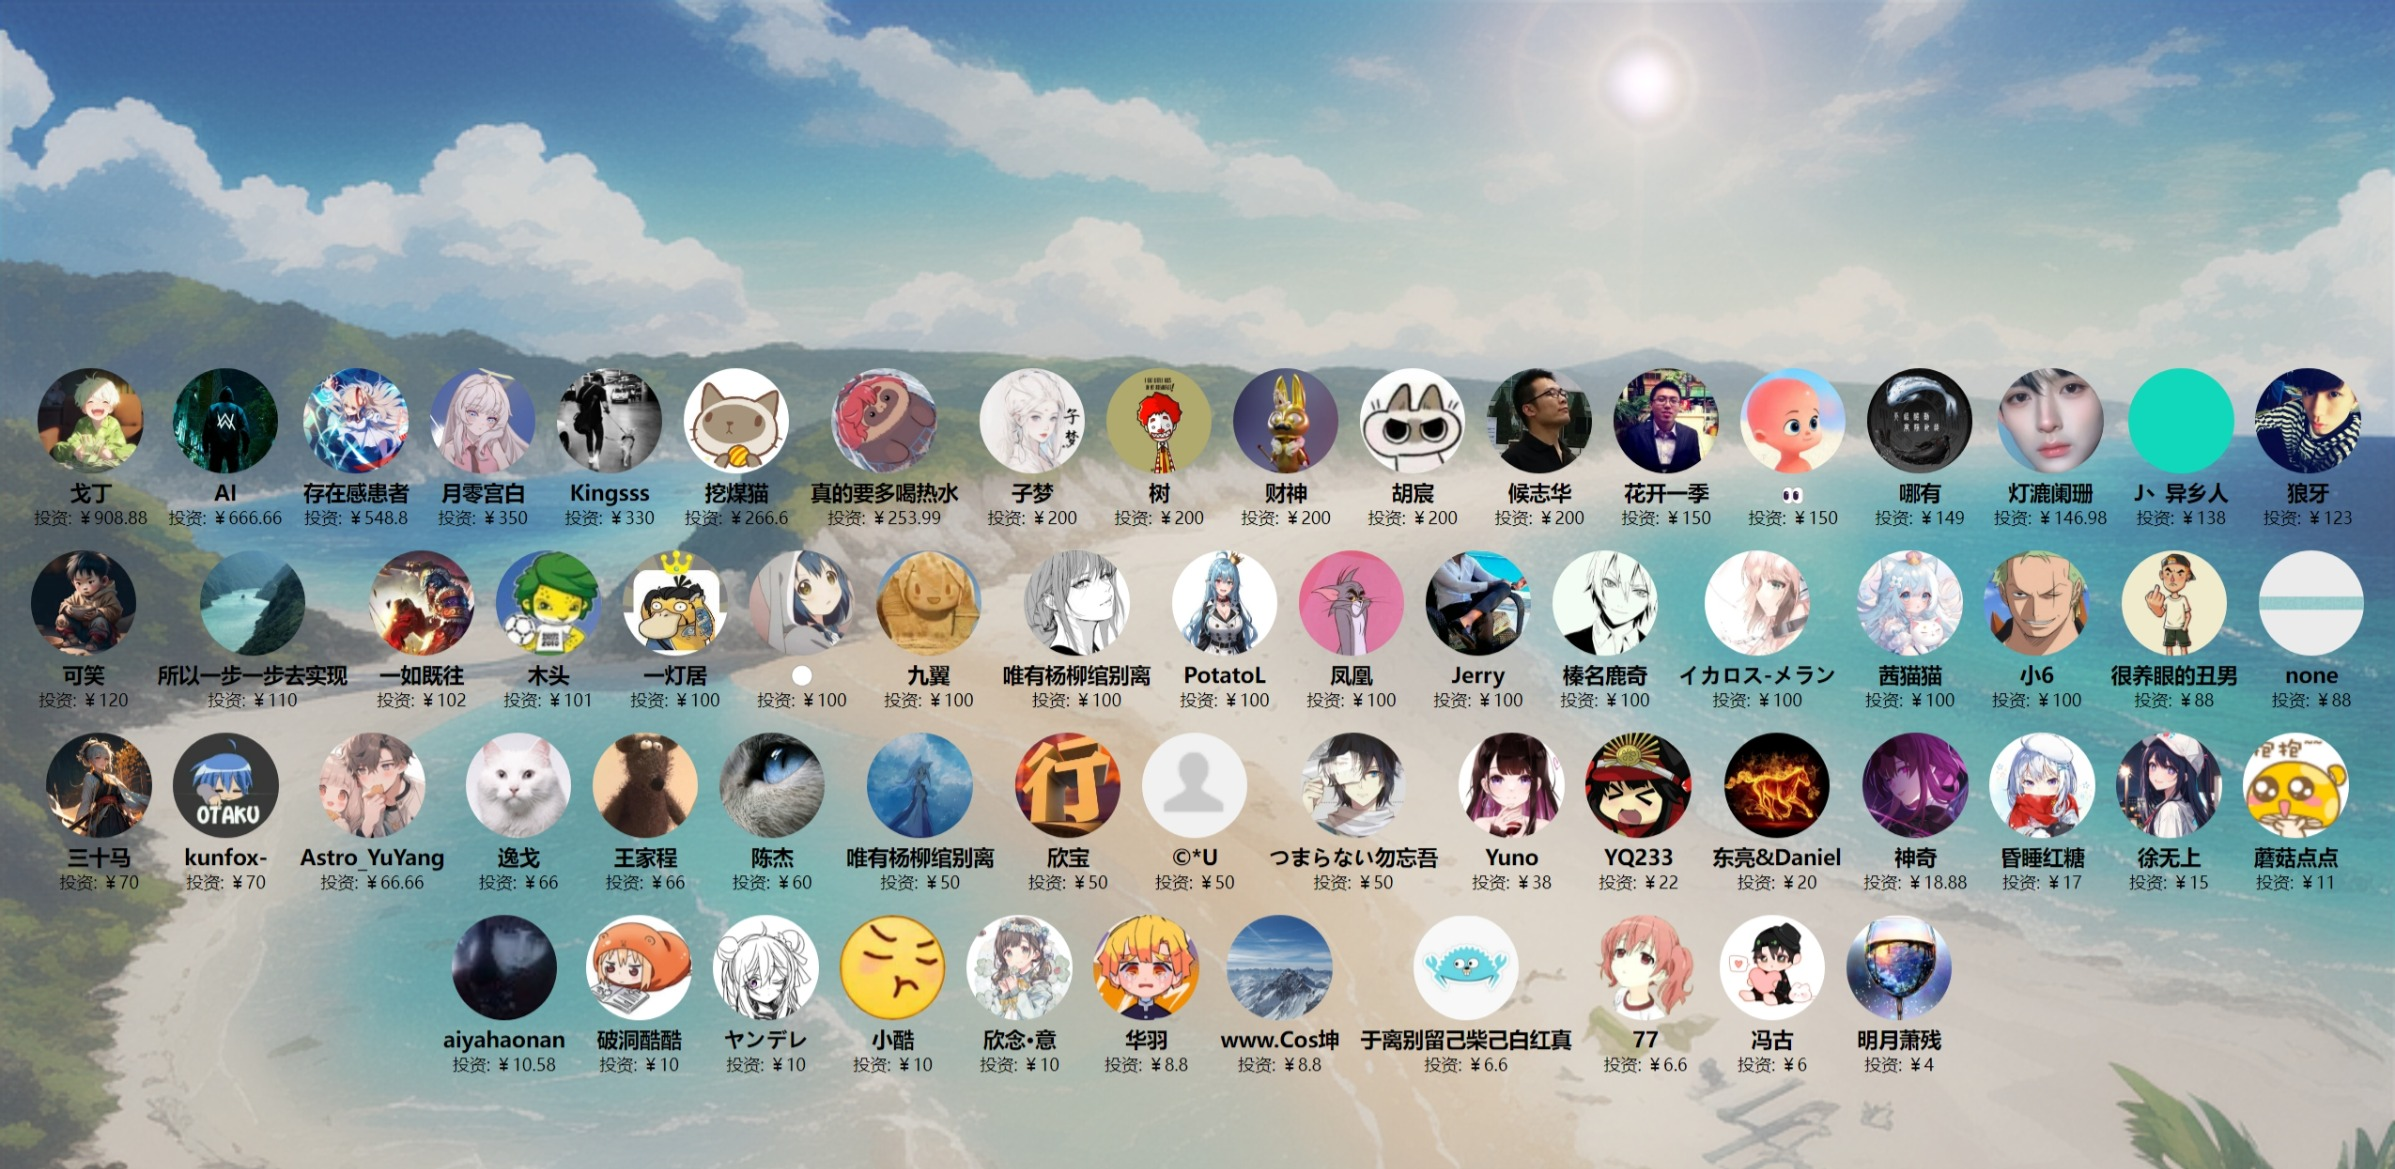
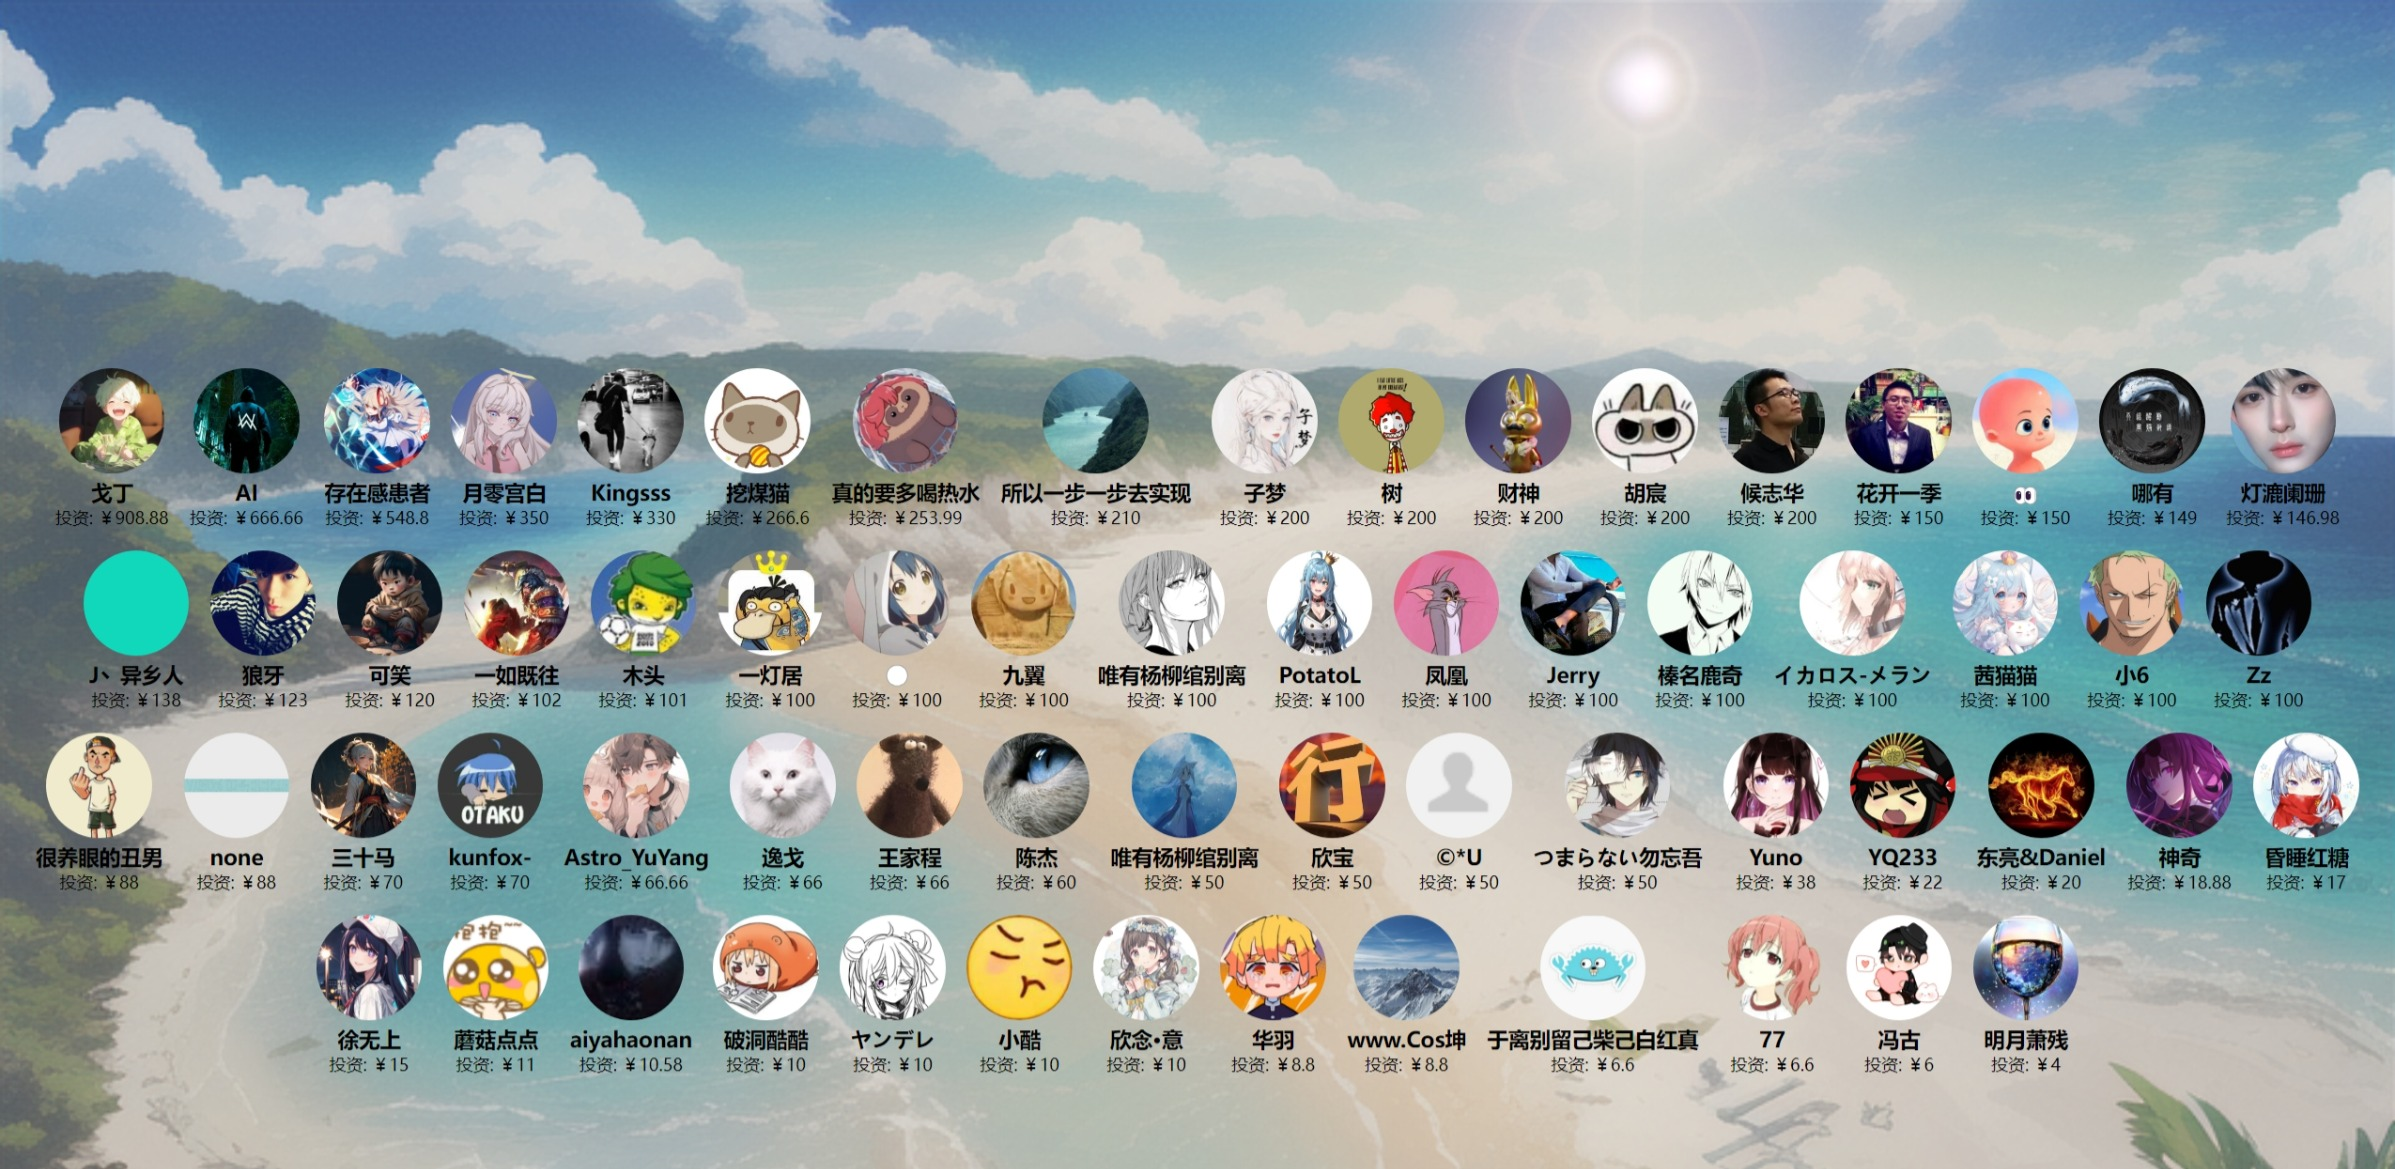
更新投资人

Changed region(s): [[0.0, 0.308, 0.9887, 0.9239]]

diff --git a/docs/投资人/index.html b/docs/投资人/index.html
@@ -87,6 +87,11 @@
             amount: "￥253.99"
         },
         {
+            name: "所以一步一步去实现",
+            avatar: "https://images.cnblogs.com/cnblogs_com/ikaros-521/2328032/o_231102080949_QQ%E5%9B%BE%E7%89%8720231102160835.jpg",
+            amount: "￥210"
+        },
+        {
             name: "子梦",
             avatar: "https://images.cnblogs.com/cnblogs_com/ikaros-521/2328032/o_230730083335_%E5%BE%AE%E4%BF%A1%E5%9B%BE%E7%89%87_20230730163219.jpg",
             amount: "￥200"
@@ -145,11 +150,6 @@
             name: "可笑",
             avatar: "https://images.cnblogs.com/cnblogs_com/ikaros-521/2328032/o_230820095537_QQ%E5%9B%BE%E7%89%8720230820175506.jpg",
             amount: "￥120"
-        },
-        {
-            name: "所以一步一步去实现",
-            avatar: "https://images.cnblogs.com/cnblogs_com/ikaros-521/2328032/o_231102080949_QQ%E5%9B%BE%E7%89%8720231102160835.jpg",
-            amount: "￥110"
         },
         {
             name: "一如既往",
@@ -214,6 +214,11 @@
         {
             name: "小6",
             avatar: "https://images.cnblogs.com/cnblogs_com/ikaros-521/2328032/o_231126075842_QQ%E5%9B%BE%E7%89%8720231126155821.jpg",
+            amount: "￥100"
+        },
+        {
+            name: "Zz",
+            avatar: "https://images.cnblogs.com/cnblogs_com/ikaros-521/2328032/o_231210134734_image.png",
             amount: "￥100"
         },
         {
